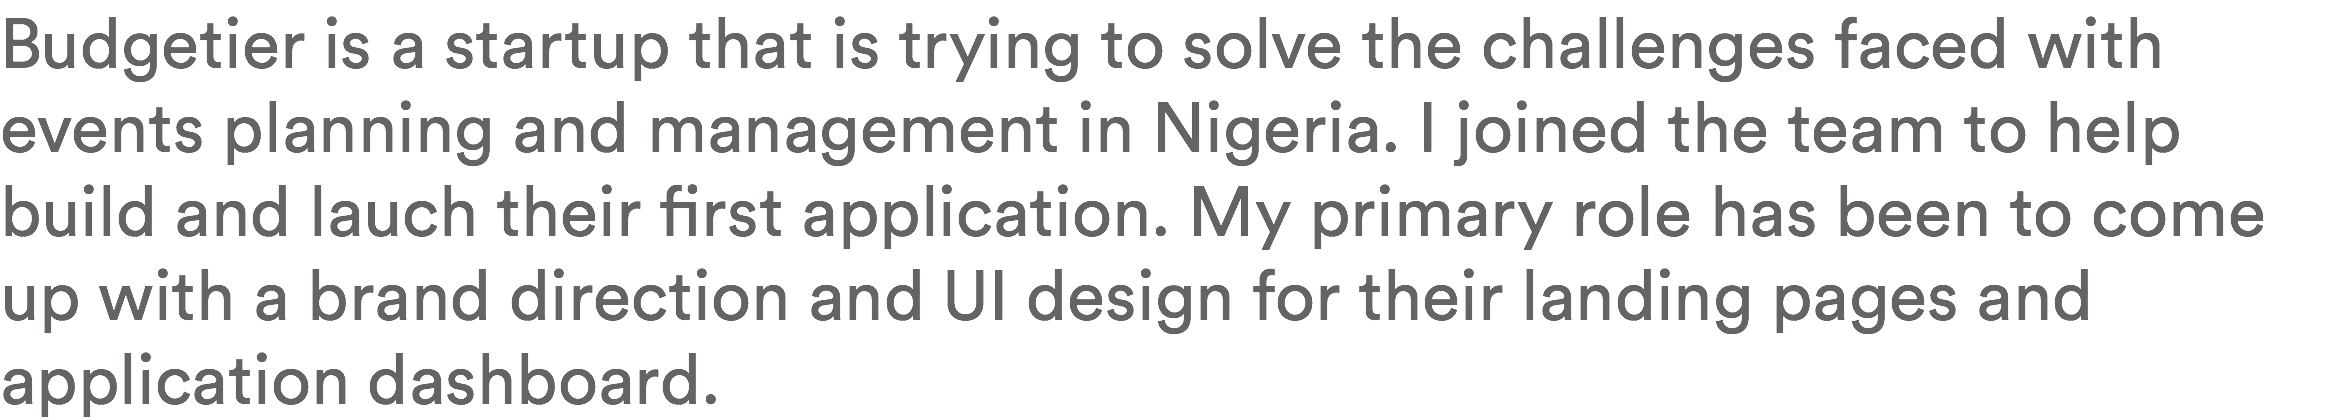
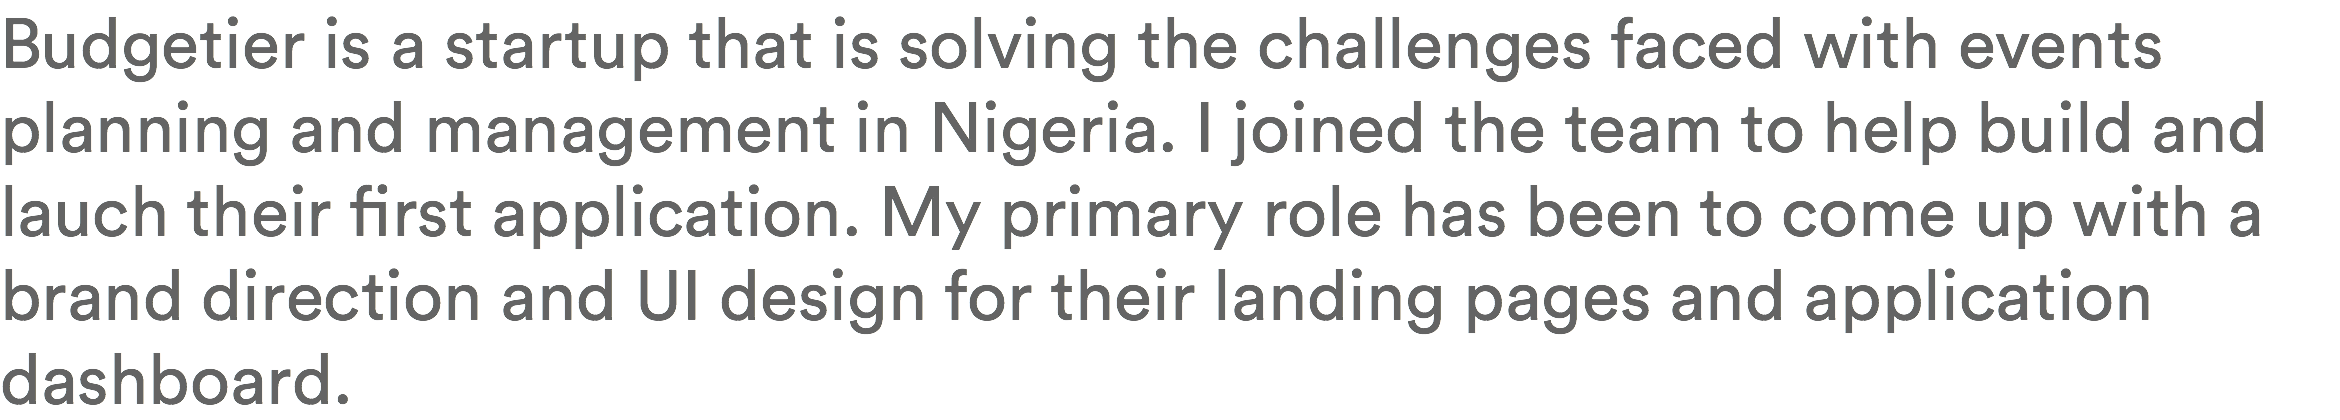
Updated CDC page

diff --git a/css/cdc.css b/css/cdc.css
@@ -1,1 +1,1 @@
-.version.cdc{color:#00000A;background-color:#057868;}#page{z-index:1;min-height:2422px;background-image:none;border-width:0px;border-color:#000000;background-color:transparent;width:100%;max-width:1170px;margin-left:auto;margin-right:auto;}#page_position_content{padding-top:70px;padding-bottom:62px;width:100%;}#u1636{z-index:47;border-width:0px;border-color:transparent;background-color:transparent;position:relative;width:100%;}#u1638-4{z-index:48;position:relative;margin-right:-10000px;margin-top:-1px;width:4.28%;}#u1640{z-index:52;height:32px;opacity:1;-ms-filter:"progid:DXImageTransform.Microsoft.Alpha(Opacity=100)";filter:alpha(opacity=100);position:relative;margin-right:-10000px;margin-top:4px;width:3.42%;left:88.04%;background:transparent url("../images/tw.png?crc=376948645") no-repeat center center;}.hidpi #u1640{background-image:url("../images/tw_2x.png?crc=4069324087");background-size:20px 16px;}#u1639{z-index:53;height:40px;opacity:1;-ms-filter:"progid:DXImageTransform.Microsoft.Alpha(Opacity=100)";filter:alpha(opacity=100);position:relative;margin-right:-10000px;width:3.42%;left:92.31%;background:transparent url("../images/dr.png?crc=252767982") no-repeat center center;}.hidpi #u1639{background-image:url("../images/dr_2x.png?crc=4042064281");background-size:20px 20px;}#u1637{z-index:54;height:40px;opacity:1;-ms-filter:"progid:DXImageTransform.Microsoft.Alpha(Opacity=100)";filter:alpha(opacity=100);position:relative;margin-right:-10000px;width:3.42%;left:96.59%;background:transparent url("../images/ig.png?crc=64340436") no-repeat center center;}.hidpi #u1637{background-image:url("../images/ig_2x.png?crc=361941684");background-size:20px 20px;}#u1630{z-index:38;border-width:0px;border-color:transparent;background-color:transparent;margin-top:82px;position:relative;width:100%;}#u1631-4{z-index:43;display:block;vertical-align:top;position:relative;width:100%;}#u1632-4{z-index:39;display:block;vertical-align:top;top:-1px;margin-bottom:-1px;position:relative;width:100%;}#u1621{z-index:32;border-width:0px;border-color:transparent;background-color:transparent;padding-bottom:0px;margin-top:30px;position:relative;width:23.08%;}#u1623-4{z-index:34;position:relative;width:100%;}#u1622{z-index:33;height:1px;background-color:#000000;position:relative;width:74.08%;}#u1618{z-index:26;border-width:0px;border-color:transparent;background-color:transparent;margin-top:49px;position:relative;width:100%;}#u1619-4{z-index:28;display:block;vertical-align:top;position:relative;width:23.08%;}#u1620{z-index:27;height:2px;background-color:#000000;position:relative;width:100%;}#u1624{z-index:24;border-width:0px;border-color:transparent;background-color:transparent;margin-top:31px;position:relative;width:100%;}#u1625{z-index:25;height:800px;opacity:1;-ms-filter:"progid:DXImageTransform.Microsoft.Alpha(Opacity=100)";filter:alpha(opacity=100);position:relative;margin-right:-10000px;width:100%;background:#3C485E url("../images/cdc%201.png?crc=3939085957") no-repeat center center;background-size:cover;}.hidpi #u1625{background-image:url("../images/cdc%201_2x.png?crc=340298007");}#u1868{z-index:22;border-width:0px;border-color:transparent;background-color:transparent;margin-top:30px;position:relative;width:100%;}#u1869{z-index:23;height:800px;opacity:1;-ms-filter:"progid:DXImageTransform.Microsoft.Alpha(Opacity=100)";filter:alpha(opacity=100);position:relative;margin-right:-10000px;width:100%;background:#3C485E url("../images/cdc%202.png?crc=58266235") no-repeat center center;background-size:cover;}.hidpi #u1869{background-image:url("../images/cdc%202_2x.png?crc=533124559");}#pu1906{z-index:12;margin-top:39px;width:100%;}#u1906{z-index:12;border-width:0px;border-color:transparent;background-color:transparent;position:relative;margin-right:-10000px;width:28.21%;left:0px;margin-left:0px;}#u1909{z-index:13;height:16px;opacity:1;-ms-filter:"progid:DXImageTransform.Microsoft.Alpha(Opacity=100)";filter:alpha(opacity=100);position:relative;margin-right:-10000px;margin-top:48px;width:21.22%;background:transparent url("../images/left%20l.png?crc=8299474") no-repeat center center;background-size:cover;}.hidpi #u1909{background-image:url("../images/left%20l_2x.png?crc=4100665622");}#pu1908-4{z-index:18;padding-bottom:0px;margin-right:-10000px;margin-left:100px;width:69.7%;}#u1908-4{z-index:18;position:relative;width:56.53%;}#u1907-4{z-index:14;position:relative;width:100%;}#u1865{z-index:2;border-width:0px;border-color:transparent;background-color:transparent;position:relative;margin-right:-10000px;width:34.19%;left:65.82%;margin-left:0%;}#pu1767-4{z-index:8;padding-bottom:0px;margin-right:-10000px;width:75%;}#u1767-4{z-index:8;position:relative;width:43.34%;margin-left:56.67%;}#u1753-4{z-index:4;position:relative;width:100%;}#u1638-4_img,#u1623-4_img,#u1908-4_img,#u1907-4_img,#u1767-4_img,#u1753-4_img{display:block;vertical-align:top;width:100%;}#u1754{z-index:3;height:16px;opacity:1;-ms-filter:"progid:DXImageTransform.Microsoft.Alpha(Opacity=100)";filter:alpha(opacity=100);position:relative;margin-right:-10000px;margin-top:47px;width:17.5%;left:82.5%;background:transparent url("../images/right%20l.png?crc=248859151") no-repeat center center;background-size:cover;}.hidpi #u1754{background-image:url("../images/right%20l_2x.png?crc=510560149");}#u2579-4{z-index:55;display:block;vertical-align:top;margin-top:101px;position:relative;width:23.08%;}#muse_css_mq,.html{background-color:#FFFFFF;}body{position:relative;min-width:320px;padding-bottom:100px;}
+.version.cdc{color:#000018;background-color:#07FD89;}#page{z-index:1;min-height:2422px;background-image:none;border-width:0px;border-color:#000000;background-color:transparent;width:100%;max-width:1170px;margin-left:auto;margin-right:auto;}#page_position_content{padding-top:70px;padding-bottom:62px;width:100%;}#u1636{z-index:47;border-width:0px;border-color:transparent;background-color:transparent;position:relative;width:100%;}#u1638-4{z-index:48;position:relative;margin-right:-10000px;margin-top:-1px;width:4.28%;}#u1640{z-index:52;height:32px;opacity:1;-ms-filter:"progid:DXImageTransform.Microsoft.Alpha(Opacity=100)";filter:alpha(opacity=100);position:relative;margin-right:-10000px;margin-top:4px;width:3.42%;left:88.04%;background:transparent url("../images/tw.png?crc=376948645") no-repeat center center;}.hidpi #u1640{background-image:url("../images/tw_2x.png?crc=4069324087");background-size:20px 16px;}#u1639{z-index:53;height:40px;opacity:1;-ms-filter:"progid:DXImageTransform.Microsoft.Alpha(Opacity=100)";filter:alpha(opacity=100);position:relative;margin-right:-10000px;width:3.42%;left:92.31%;background:transparent url("../images/dr.png?crc=252767982") no-repeat center center;}.hidpi #u1639{background-image:url("../images/dr_2x.png?crc=4042064281");background-size:20px 20px;}#u1637{z-index:54;height:40px;opacity:1;-ms-filter:"progid:DXImageTransform.Microsoft.Alpha(Opacity=100)";filter:alpha(opacity=100);position:relative;margin-right:-10000px;width:3.42%;left:96.59%;background:transparent url("../images/ig.png?crc=64340436") no-repeat center center;}.hidpi #u1637{background-image:url("../images/ig_2x.png?crc=361941684");background-size:20px 20px;}#u1630{z-index:38;border-width:0px;border-color:transparent;background-color:transparent;margin-top:82px;position:relative;width:100%;}#u1631-4{z-index:43;display:block;vertical-align:top;position:relative;width:100%;}#u1632-4{z-index:39;display:block;vertical-align:top;top:-1px;margin-bottom:-1px;position:relative;width:100%;}#u1621{z-index:32;border-width:0px;border-color:transparent;background-color:transparent;padding-bottom:0px;margin-top:30px;position:relative;width:23.08%;}#u1623-4{z-index:34;position:relative;width:100%;}#u1622{z-index:33;height:1px;background-color:#000000;position:relative;width:59.26%;}#u1618{z-index:26;border-width:0px;border-color:transparent;background-color:transparent;margin-top:49px;position:relative;width:100%;}#u1619-4{z-index:28;display:block;vertical-align:top;position:relative;width:23.08%;}#u1620{z-index:27;height:2px;background-color:#000000;position:relative;width:100%;}#u1624{z-index:24;border-width:0px;border-color:transparent;background-color:transparent;margin-top:31px;position:relative;width:100%;}#u1625{z-index:25;height:800px;opacity:1;-ms-filter:"progid:DXImageTransform.Microsoft.Alpha(Opacity=100)";filter:alpha(opacity=100);position:relative;margin-right:-10000px;width:100%;background:#3C485E url("../images/cdc%201.png?crc=3939085957") no-repeat center center;background-size:cover;}.hidpi #u1625{background-image:url("../images/cdc%201_2x.png?crc=340298007");}#u1868{z-index:22;border-width:0px;border-color:transparent;background-color:transparent;margin-top:30px;position:relative;width:100%;}#u1869{z-index:23;height:800px;opacity:1;-ms-filter:"progid:DXImageTransform.Microsoft.Alpha(Opacity=100)";filter:alpha(opacity=100);position:relative;margin-right:-10000px;width:100%;background:#3C485E url("../images/cdc%202.png?crc=58266235") no-repeat center center;background-size:cover;}.hidpi #u1869{background-image:url("../images/cdc%202_2x.png?crc=533124559");}#pu1906{z-index:12;margin-top:39px;width:100%;}#u1906{z-index:12;border-width:0px;border-color:transparent;background-color:transparent;position:relative;margin-right:-10000px;width:28.21%;left:0px;margin-left:0px;}#u1909{z-index:13;height:16px;opacity:1;-ms-filter:"progid:DXImageTransform.Microsoft.Alpha(Opacity=100)";filter:alpha(opacity=100);position:relative;margin-right:-10000px;margin-top:48px;width:21.22%;background:transparent url("../images/left%20l.png?crc=8299474") no-repeat center center;background-size:cover;}.hidpi #u1909{background-image:url("../images/left%20l_2x.png?crc=4100665622");}#pu1908-4{z-index:18;padding-bottom:0px;margin-right:-10000px;margin-left:100px;width:69.7%;}#u1908-4{z-index:18;position:relative;width:56.53%;}#u1907-4{z-index:14;position:relative;width:100%;}#u1865{z-index:2;border-width:0px;border-color:transparent;background-color:transparent;position:relative;margin-right:-10000px;width:34.19%;left:65.82%;margin-left:0%;}#pu1767-4{z-index:8;padding-bottom:0px;margin-right:-10000px;width:75%;}#u1767-4{z-index:8;position:relative;width:43.34%;margin-left:56.67%;}#u1753-4{z-index:4;position:relative;width:100%;}#u1638-4_img,#u1623-4_img,#u1908-4_img,#u1907-4_img,#u1767-4_img,#u1753-4_img{display:block;vertical-align:top;width:100%;}#u1754{z-index:3;height:16px;opacity:1;-ms-filter:"progid:DXImageTransform.Microsoft.Alpha(Opacity=100)";filter:alpha(opacity=100);position:relative;margin-right:-10000px;margin-top:47px;width:17.5%;left:82.5%;background:transparent url("../images/right%20l.png?crc=248859151") no-repeat center center;background-size:cover;}.hidpi #u1754{background-image:url("../images/right%20l_2x.png?crc=510560149");}#u2579-4{z-index:55;display:block;vertical-align:top;margin-top:101px;position:relative;width:23.08%;}#muse_css_mq,.html{background-color:#FFFFFF;}body{position:relative;min-width:320px;padding-bottom:100px;}

diff --git a/cdc.html b/cdc.html
@@ -17,7 +17,7 @@ if(typeof Muse == "undefined") window.Muse = {}; window.Muse.assets = {"required
   <title>CDC</title>
   <!-- CSS -->
   <link rel="stylesheet" type="text/css" href="css/site_global.css?crc=444006867"/>
-  <link rel="stylesheet" type="text/css" href="css/cdc.css?crc=168130664" id="pagesheet"/>
+  <link rel="stylesheet" type="text/css" href="css/cdc.css?crc=403176841" id="pagesheet"/>
    </head>
  <body>
 
@@ -34,7 +34,7 @@ if(typeof Muse == "undefined") window.Muse = {}; window.Muse.assets = {"required
      <img class="colelem" id="u1632-4" alt="I’m a part of a dev/design community in my school and one of our first projects was to design a static website for ourselves. I designed the individual pages of the site with the help and support of my friends and a few members of the community." src="images/u1632-4.png?crc=416484061" data-hidpi-src="images/u1632-4_2x.png?crc=3813535797" data-image-width="1170"/><!-- rasterized frame -->
     </div>
     <div class="clearfix colelem" id="u1621"><!-- column -->
-     <a class="nonblock nontext colelem" id="u1623-4" href="http://cudevgroup.github.io" data-sizePolicy="fluidWidth" data-pintopage="page_fixedLeft"><!-- rasterized frame --><img id="u1623-4_img" alt="Site comming soon" src="images/u1623-4.png?crc=4171869333" data-hidpi-src="images/u1623-4_2x.png?crc=409261628" data-image-width="270"/></a>
+     <a class="nonblock nontext colelem" id="u1623-4" href="http://cudevgroup.github.io" data-sizePolicy="fluidWidth" data-pintopage="page_fixedLeft"><!-- rasterized frame --><img id="u1623-4_img" alt="Site coming soon" src="images/u1623-4.png?crc=400430888" data-hidpi-src="images/u1623-4_2x.png?crc=3854157562" data-image-width="270"/></a>
      <a class="nonblock nontext colelem" id="u1622" href="http://cudevgroup.github.io" data-sizePolicy="fluidWidth" data-pintopage="page_fixedLeft"><!-- simple frame --></a>
     </div>
     <div class="clearfix colelem" id="u1618"><!-- column -->

diff --git a/budgetier.html b/budgetier.html
@@ -30,7 +30,7 @@ if(typeof Muse == "undefined") window.Muse = {}; window.Muse.assets = {"required
    </div>
    <div class="clearfix colelem" id="u2474"><!-- column -->
     <img class="colelem" id="u2475-4" alt="Budgetier" src="images/u2475-4.png?crc=258562022" data-hidpi-src="images/u2475-4_2x.png?crc=4220417230" data-image-width="1170"/><!-- rasterized frame -->
-    <img class="colelem" id="u2476-4" alt="Budgetier is a startup that is trying to solve the challenges faced with events planning and management in Nigeria. I joined the team to help build and lauch their first application. My primary role has been to come up with a brand direction and UI design for their landing pages and application dashboard." src="images/u2476-4.png?crc=3783928998" data-hidpi-src="images/u2476-4_2x.png?crc=4253225612" data-image-width="1170"/><!-- rasterized frame -->
+    <img class="colelem" id="u2476-4" alt="Budgetier is a startup that is solving the challenges faced with events planning and management in Nigeria. I joined the team to help build and lauch their first application. My primary role has been to come up with a brand direction and UI design for their landing pages and application dashboard." src="images/u2476-4.png?crc=4007377560" data-hidpi-src="images/u2476-4_2x.png?crc=244670408" data-image-width="1170"/><!-- rasterized frame -->
    </div>
    <div class="clearfix colelem" id="u2468"><!-- column -->
     <div class="position_content" id="u2468_position_content">
